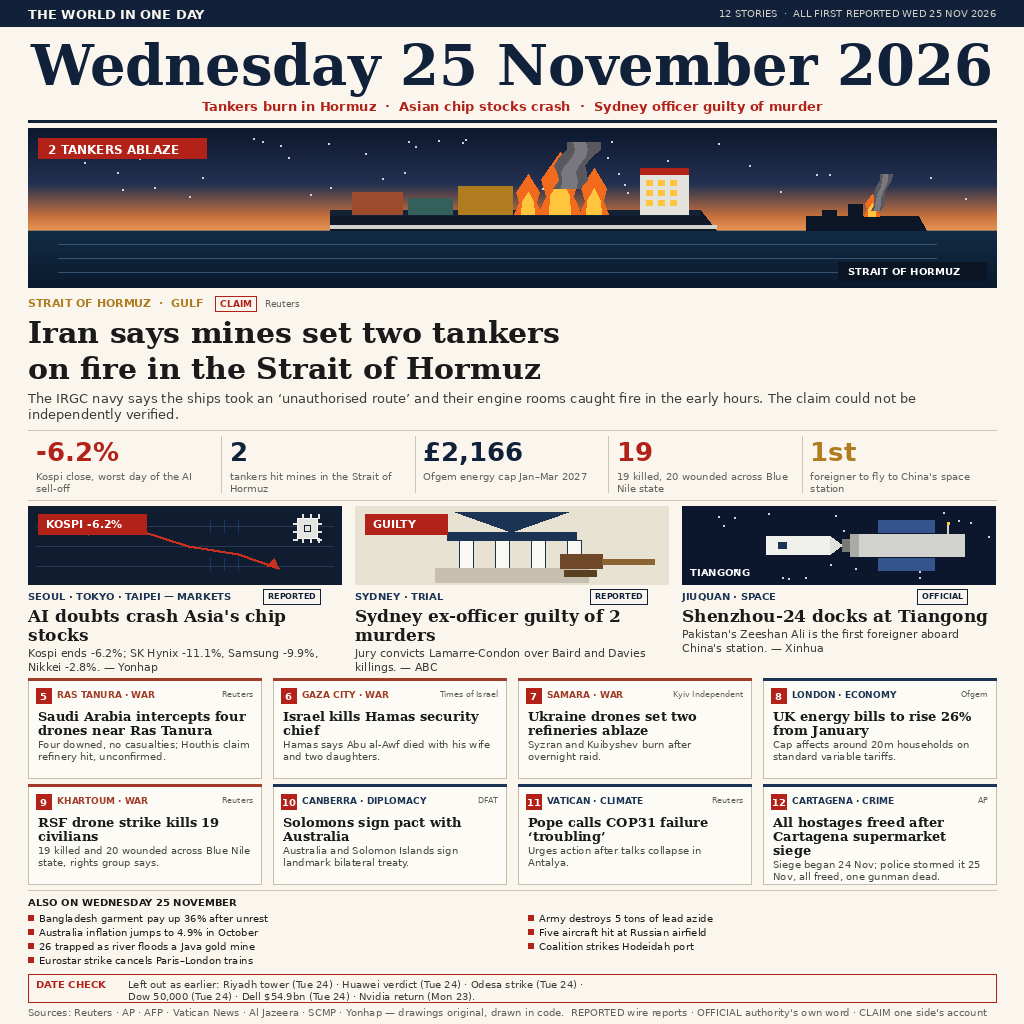
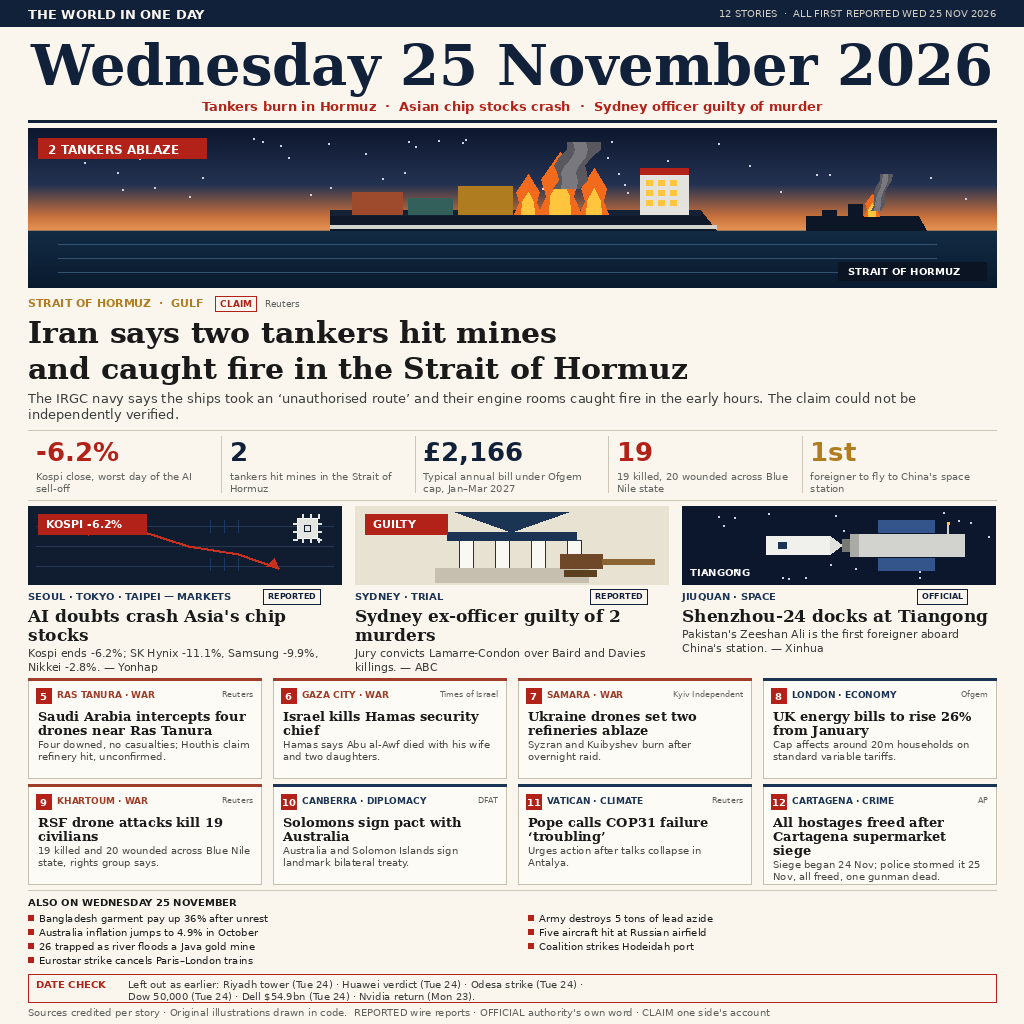
news-image-20261125 v2: broadsheet front page (ChatGPT-reviewed, date fixes, Hamas attribution)

diff --git a/draw_news.py b/draw_news.py
@@ -233,7 +233,7 @@ kick = "STRAIT OF HORMUZ  ·  GULF"
 d.text((X0, 296), kick, font=SANS_B(11), fill=OCHRE)
 pw = pill(d, X0 + d.textlength(kick, font=SANS_B(11)) + 12, 296, "CLAIM", SANS_B(9), RED, RED)
 d.text((X0 + d.textlength(kick, font=SANS_B(11)) + 12 + pw + 8, 298), "Reuters", font=SANS(9), fill=GREY)
-hl = ["Iran says mines set two tankers", "on fire in the Strait of Hormuz"]
+hl = ["Iran says two tankers hit mines", "and caught fire in the Strait of Hormuz"]
 y = 314
 for line in hl:
     d.text((X0, y), line, font=SERIF_B(30), fill=INK)
@@ -249,7 +249,7 @@ d.line([(X0, 430), (X1, 430)], fill=LGREY, width=1)
 nums = [
     ("-6.2%", RED, "Kospi close, worst day of the AI sell-off"),
     ("2", NAVY, "tankers hit mines in the Strait of Hormuz"),
-    ("£2,166", NAVY, "Ofgem energy cap Jan–Mar 2027"),
+    ("£2,166", NAVY, "Typical annual bill under Ofgem cap, Jan–Mar 2027"),
     ("19", RED, "19 killed, 20 wounded across Blue Nile state"),
     ("1st", OCHRE, "foreigner to fly to China's space station"),
 ]
@@ -382,7 +382,7 @@ third = [
      "UK energy bills to rise 26% from January",
      "Cap affects around 20m households on standard variable tariffs.", "Ofgem"),
     (9, "KHARTOUM · WAR", RUST, "REPORTED",
-     "RSF drone strike kills 19 civilians",
+     "RSF drone attacks kill 19 civilians",
      "19 killed and 20 wounded across Blue Nile state, rights group says.", "Reuters"),
     (10, "CANBERRA · DIPLOMACY", NAVY2, "OFFICIAL",
      "Solomons sign pact with Australia",
@@ -446,7 +446,7 @@ dc1 = "Left out as earlier: Riyadh tower (Tue 24) · Huawei verdict (Tue 24) · 
 dc2 = "Dow 50,000 (Tue 24) · Dell $54.9bn (Tue 24) · Nvidia return (Mon 23)."
 d.text((X0 + 100, 978), dc1, font=SANS(10), fill=(60, 60, 58))
 d.text((X0 + 100, 990), dc2, font=SANS(10), fill=(60, 60, 58))
-src = ("Sources: Reuters · AP · AFP · Vatican News · Al Jazeera · SCMP · Yonhap — drawings original, drawn in code.  "
+src = ("Sources credited per story · Original illustrations drawn in code.  "
        "REPORTED wire reports · OFFICIAL authority's own word · CLAIM one side's account")
 d.text((X0, 1006), src, font=SANS(10), fill=GREY)
 
